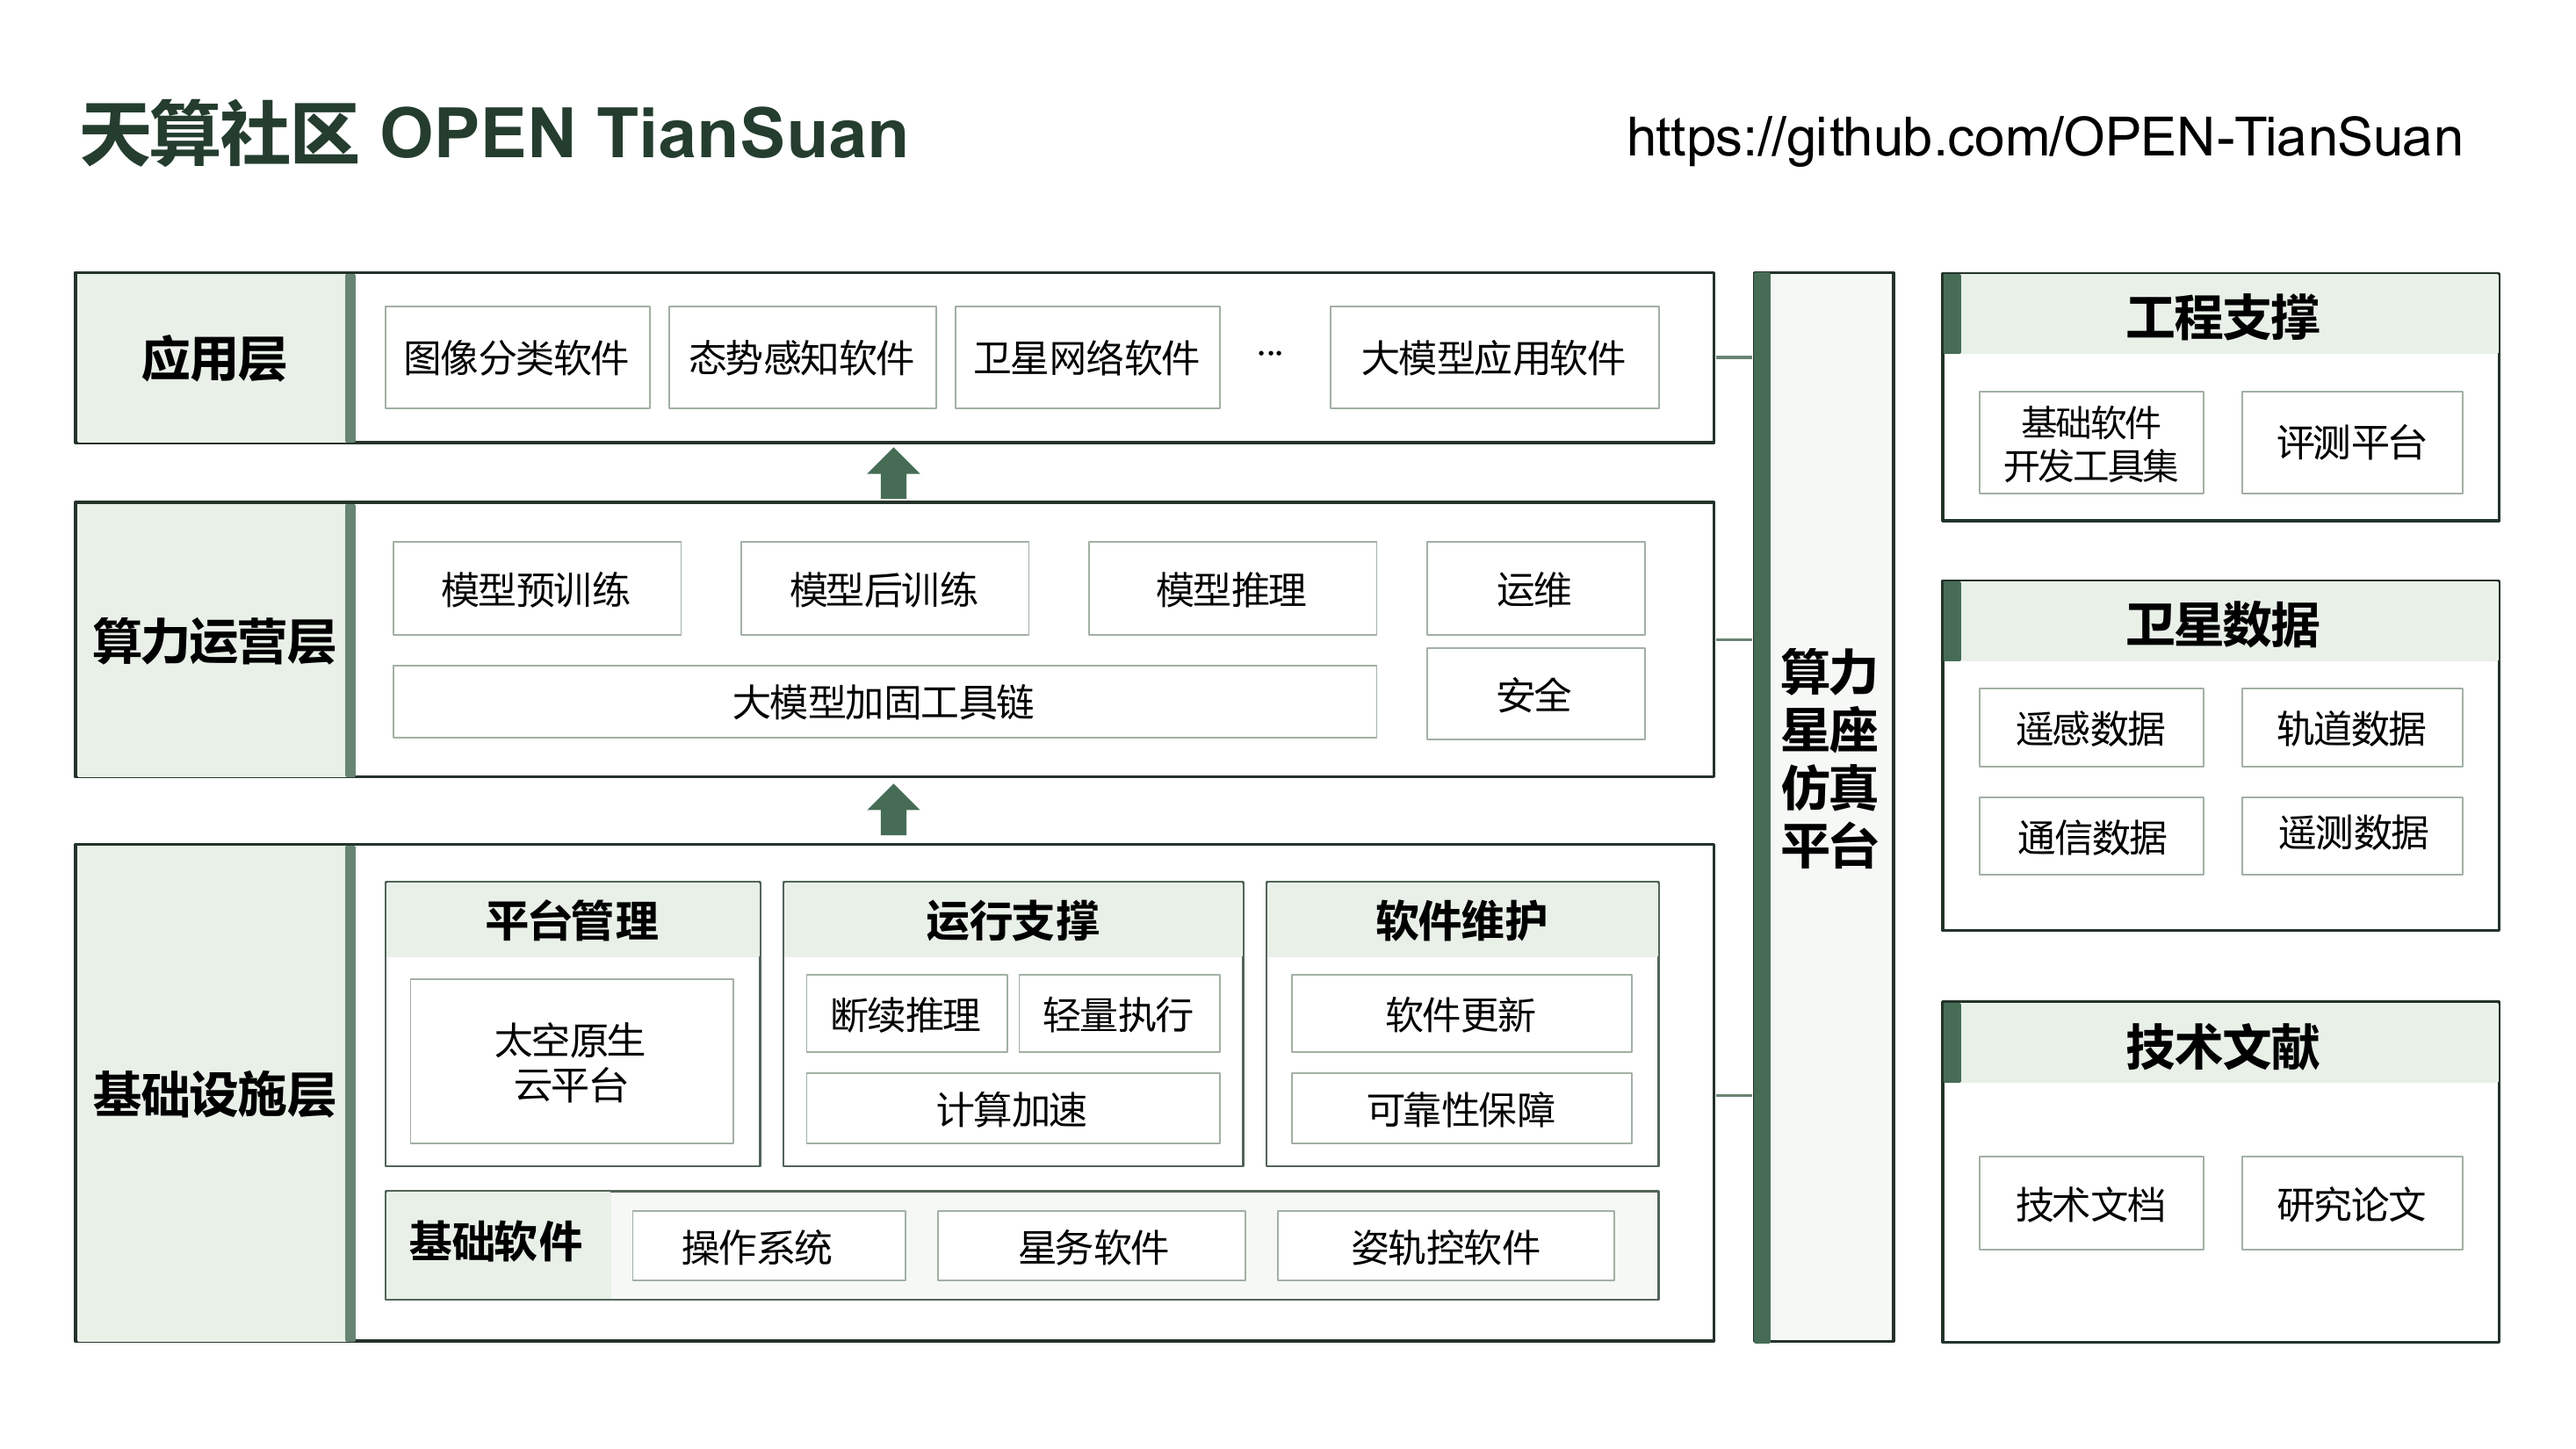
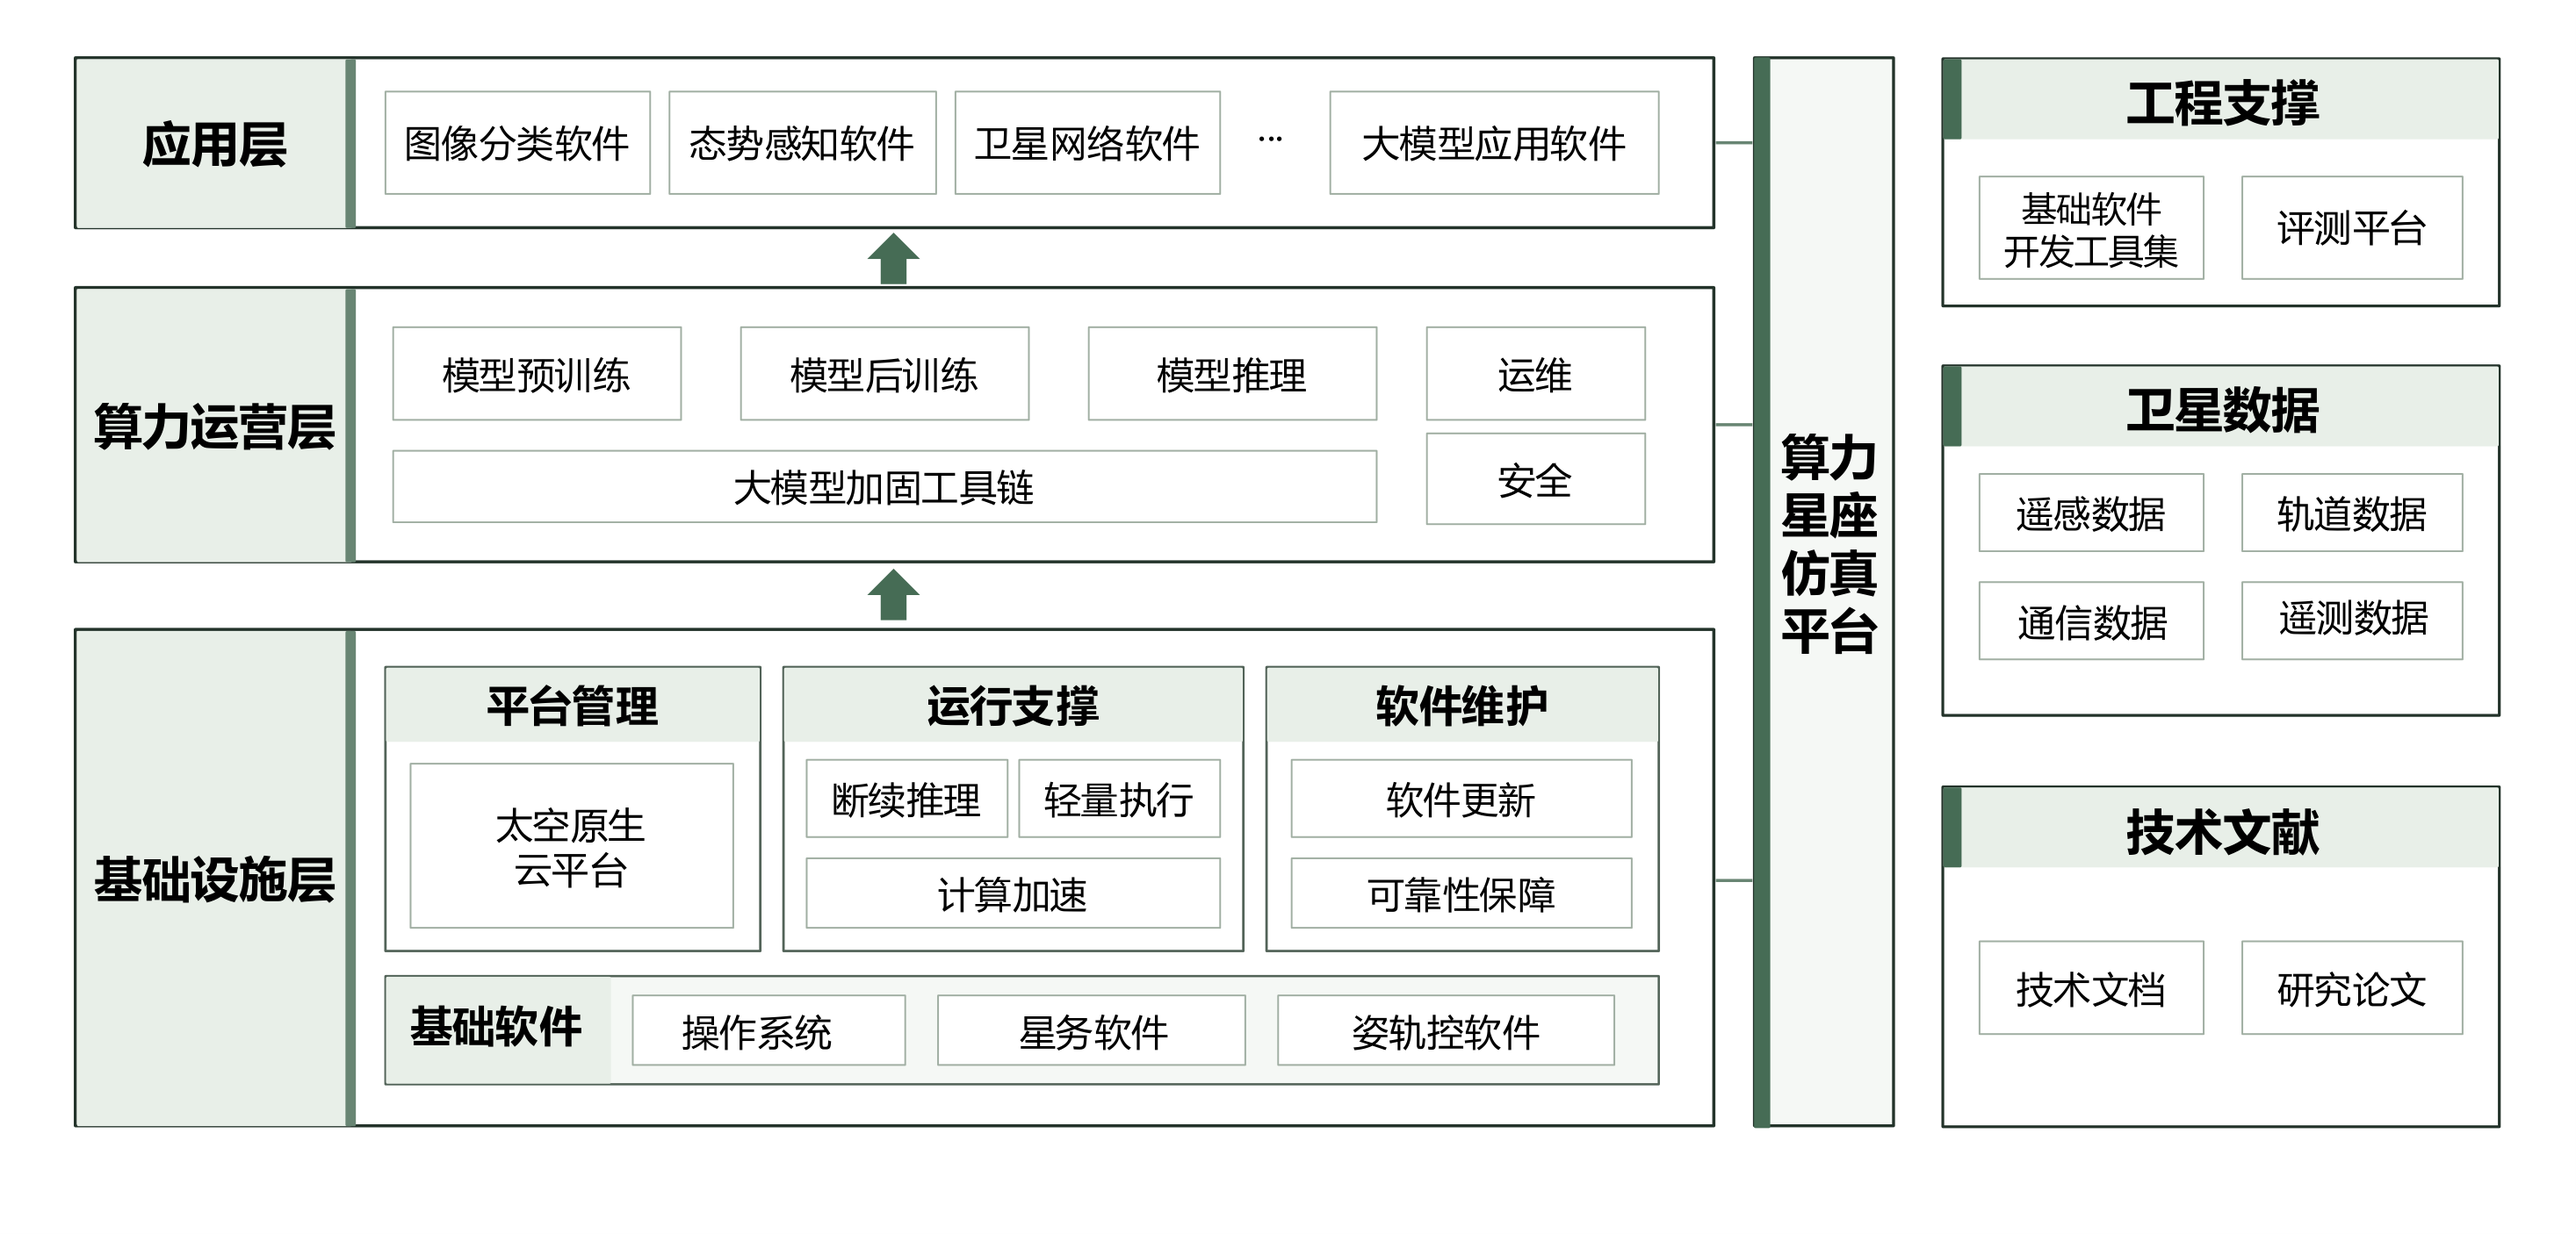
Finalize profile Explore content and architecture images
Use the cropped architecture diagrams and the final seven-repository Explore content.

diff --git a/profile/README.md b/profile/README.md
@@ -39,11 +39,18 @@ As [our ASE 2026 study](https://doi.org/10.1145/3832783.3834343) of the open-sou
 
 ### 🧩 [ApplicationLayer](https://github.com/OPEN-TianSuan/ApplicationLayer)
 
-Satellite application software built around the ten App1–App10 cases from the SateLight update framework, spanning perception, situational awareness, networking, and foundation-model applications.
+Satellite application software spanning perception, situational awareness, networking, and foundation-model applications.
 
 ### ⚙ [ComputeOperationsLayer](https://github.com/OPEN-TianSuan/ComputeOperationsLayer)
 
-Compute operations for satellite computing, from model pretraining and post-training through inference, hardening, operations, and security.
+Compute operations for satellite computing, organised by the model lifecycle and operational concerns.
+
+- **[Model Pretraining](https://github.com/OPEN-TianSuan/ComputeOperationsLayer/tree/main/ModelPretraining)** covers foundation-model pretraining.
+- **[Model Post-Training](https://github.com/OPEN-TianSuan/ComputeOperationsLayer/tree/main/ModelPostTraining)** covers foundation-model post-training.
+- **[Model Inference](https://github.com/OPEN-TianSuan/ComputeOperationsLayer/tree/main/ModelInference)** hosts inference workloads.
+- **[Foundation Model Hardening Toolchain](https://github.com/OPEN-TianSuan/ComputeOperationsLayer/tree/main/FoundationModelHardeningToolchain)** covers model hardening.
+- **[Operations](https://github.com/OPEN-TianSuan/ComputeOperationsLayer/tree/main/Operations)** covers operational workflows.
+- **[Security](https://github.com/OPEN-TianSuan/ComputeOperationsLayer/tree/main/Security)** covers security work.
 
 ### 🏗 [InfrastructureLayer](https://github.com/OPEN-TianSuan/InfrastructureLayer)
 
@@ -58,11 +65,7 @@ Engineering support for satellite software, with foundational software developme
 
 ### 🛰 [SimulationPlatform](https://github.com/OPEN-TianSuan/SimulationPlatform)
 
-Open-source platforms for simulating satellite computing constellations.
-
-- **[Satellite communication networks and protocols](https://github.com/OPEN-TianSuan/SimulationPlatform#satellite-communication-networks-and-protocols)** covers constellation networking and protocol simulation.
-- **[Orbital analysis and mission dynamics](https://github.com/OPEN-TianSuan/SimulationPlatform#orbital-analysis-and-mission-dynamics)** covers orbit and mission analysis.
-- **[RF, SDR, and electromagnetic simulation](https://github.com/OPEN-TianSuan/SimulationPlatform#rf-sdr-and-electromagnetic-simulation)** covers radio and electromagnetic modelling.
+Open-source platforms for simulating satellite computing constellations, covering communication networks, orbital analysis, and RF/SDR simulation.
 
 ### 🗂 [SatelliteData](https://github.com/OPEN-TianSuan/SatelliteData)
 
